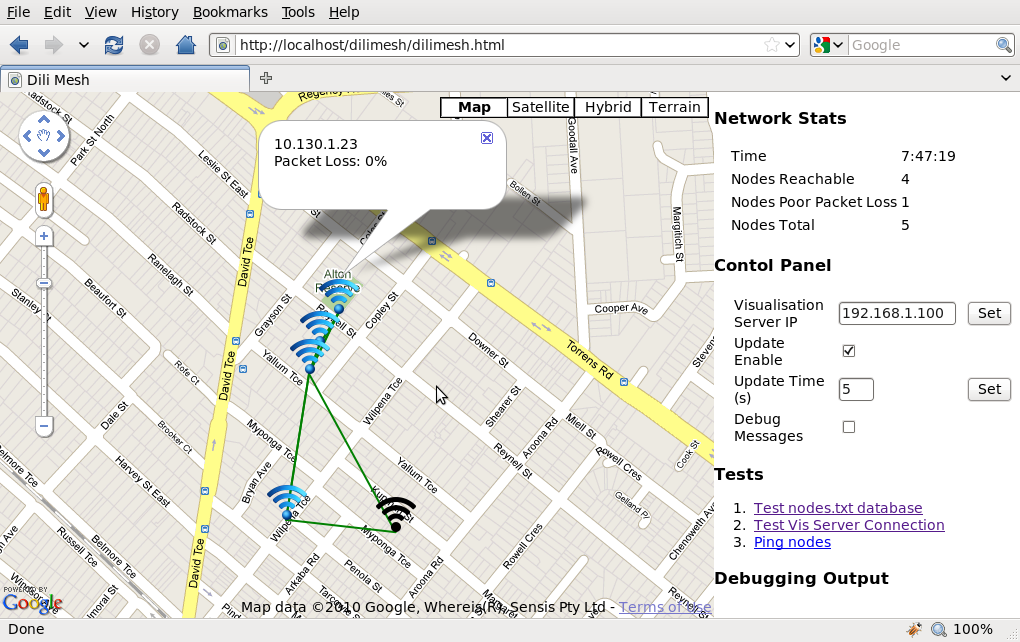
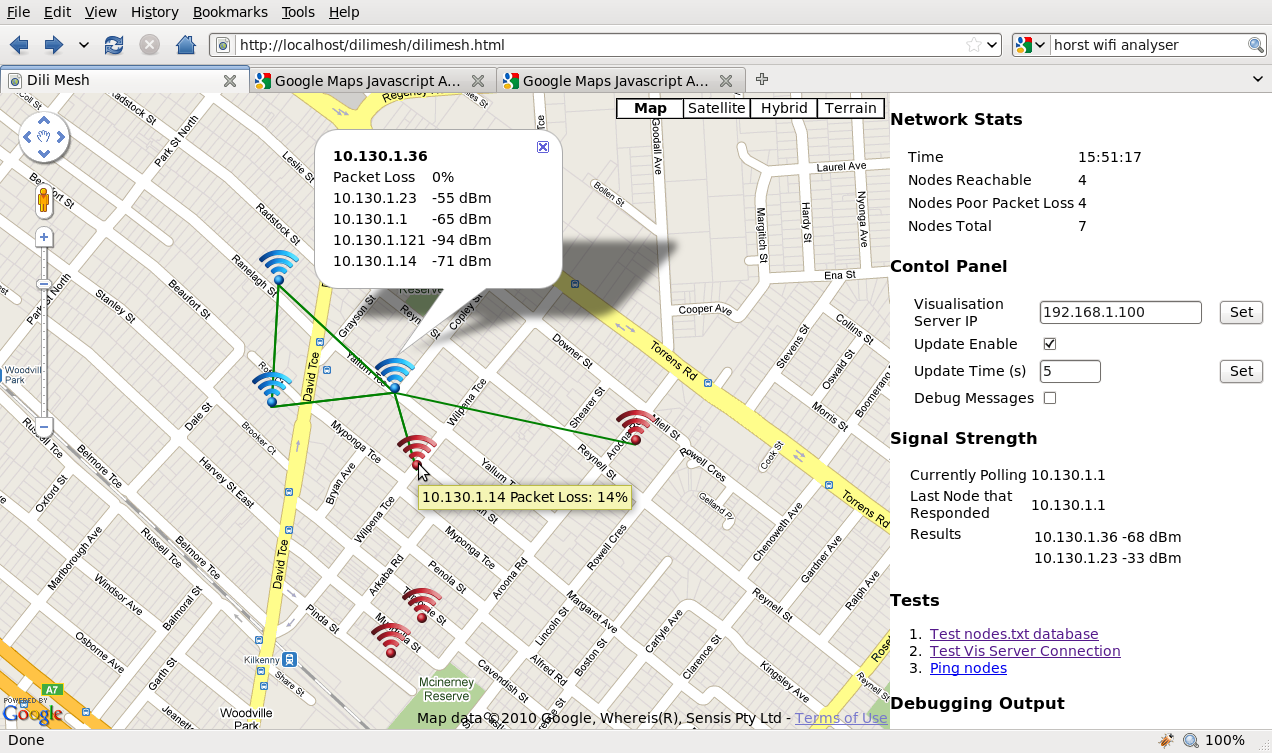
nicer info window displays

diff --git a/dilimesh/dilimesh/dilimesh.html b/dilimesh/dilimesh/dilimesh.html
@@ -358,12 +358,17 @@
       var packet_loss_formatted = Math.round(nodes[j].packet_loss*100);
 
       nodes[j].marker.setTitle(nodes[j].ip + ' Packet Loss: ' + packet_loss_formatted + '%');  
-      var html = nodes[j].ip + '<br>Packet Loss: ' + packet_loss_formatted + '%';
+      var html  = '<table>';
+          html += '<tr><th>' + nodes[j].ip + '</th></tr>';
+          html += '<tr><td>Packet Loss</td><td>' + packet_loss_formatted + '%</td></tr>';
       if (nodes[j].neighbour_ips != undefined) {
         for(var i=0; i<nodes[j].neighbour_ips.length; i++) {
-          html += '<br>' + trim(nodes[j].neighbour_ips[i]) + ' ' + trim(nodes[j].neighbour_sigs[i]) + ' dBm';
+          html += '<tr><td>' + trim(nodes[j].neighbour_ips[i]) + '</td><td>';
+          html += trim(nodes[j].neighbour_sigs[i]) + ' dBm</td><td>';
 	}
       }
+      html += '</table>';
+
       nodes[j].infowindow.setContent(html);  
     }  
 
@@ -413,12 +418,11 @@
         if (nodes[j].ip == ip) {
           nodes[j].neighbour_ips  = neighbour_ips;
           nodes[j].neighbour_sigs = neighbour_sigs;
-          var html="";
+          var html="<table>";
           for(var i=0; i<neighbour_ips.length; i++) {
-            html += trim(neighbour_ips[i]) + ' ' + trim(neighbour_sigs[i]) + ' dBm';
-            if (i != (neighbour_ips.length-1))
-              html += '<br>';
+            html += '<tr><td>' + trim(neighbour_ips[i]) + '</td><td>' + trim(neighbour_sigs[i]) + ' dBm</td></tr>';
 	  }
+          html += '</table>';
 	  document.getElementById('sigstr_last_node').innerHTML = ip;
 	  document.getElementById('sigstr_results').innerHTML = html;
         }    
@@ -431,7 +435,7 @@
 
   function drawPathesBetweenNodes() {
 
-    // delete all exisiting paths, this is inefficient but is OK for a first pass
+    // delete all existing paths, this is inefficient but is OK for a first pass
       
     if (pathes) {
       for (j in pathes) {
@@ -516,8 +520,7 @@
     // add to nodes array
 
     var newInfoWindow = new google.maps.InfoWindow(
-      { content: newIp,
-        maxWidth: 20
+      { content: newIp
       });
     var newNode = {marker : newMarker, 
                    ip: newIp, 
@@ -562,8 +565,7 @@
       // add node to nodes array
 
       var newInfoWindow = new google.maps.InfoWindow(
-        {  content: dragIp,
-           maxWidth: 20
+        {  content: dragIp
         });
       var newNode = {marker : newMarker, 
                      ip: dragIp, 
